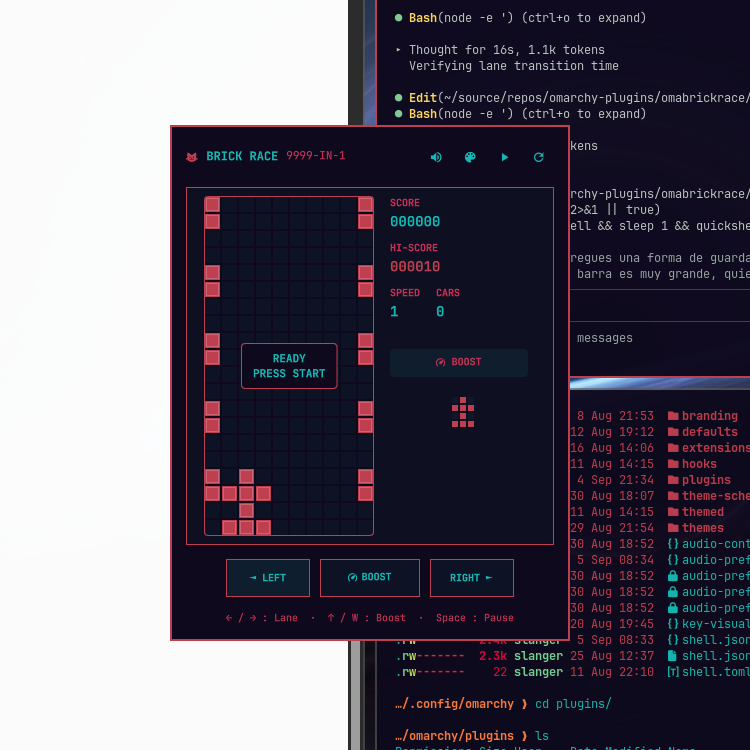
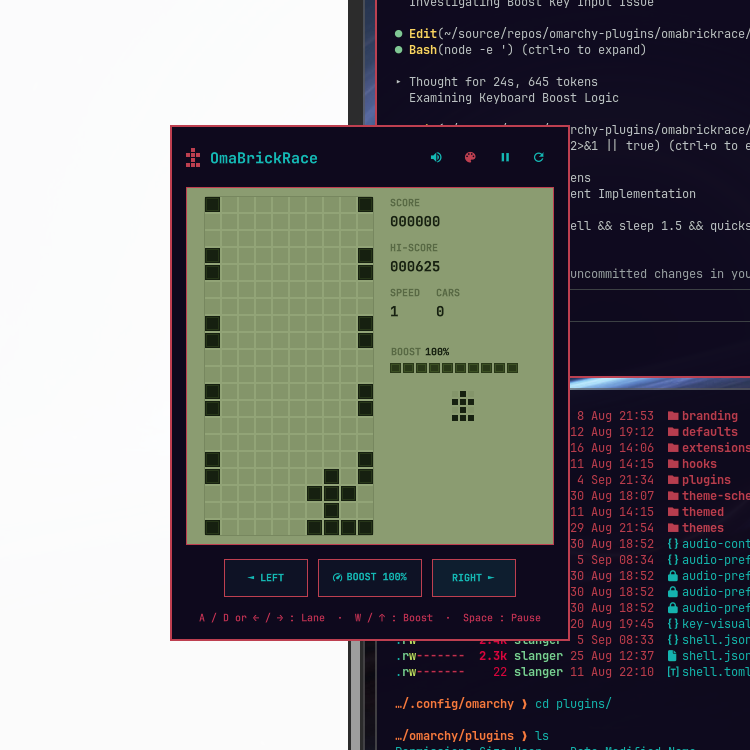
feat: fix keyboard boost autorepeat lockup, add boost energy meter with recharge on pass, update branding to OmaBrickRace

diff --git a/Panel.qml b/Panel.qml
@@ -96,6 +96,7 @@ Panel {
   }
 
   function close() {
+    root.setTurbo(false)
     root.game = Game.pause(root.game)
     root.controller.hide()
   }
@@ -190,9 +191,10 @@ Panel {
     }
   }
 
+  // Fallback watchdog timer for keyboard repeat release detection
   Timer {
-    id: turboReleaseTimer
-    interval: 250
+    id: boostWatchdogTimer
+    interval: 450
     repeat: false
     onTriggered: root.setTurbo(false)
   }
@@ -219,7 +221,7 @@ Panel {
 
         if (dy < 0) {
           root.setTurbo(true)
-          turboReleaseTimer.restart()
+          boostWatchdogTimer.restart()
         }
       }
 
@@ -240,7 +242,7 @@ Panel {
         else if (k === "d" || k === "l") root.steer(Game.LANE_RIGHT)
         else if (k === "w" || k === "k") {
           root.setTurbo(true)
-          turboReleaseTimer.restart()
+          boostWatchdogTimer.restart()
         }
         else if (k === "p") root.togglePause()
         else if (k === "r") root.startOrRestart()
@@ -249,8 +251,15 @@ Panel {
       }
 
       Keys.onReleased: function(event) {
-        if (event.key === Qt.Key_Up || event.key === Qt.Key_W) {
+        // Ignore synthetic autorepeat releases from X11/Wayland keyboard drivers
+        if (event.isAutoRepeat) {
+          event.accepted = true
+          return
+        }
+        if (event.key === Qt.Key_Up || event.key === Qt.Key_W || event.text === "w" || event.text === "k") {
+          boostWatchdogTimer.stop()
           root.setTurbo(false)
+          event.accepted = true
         }
       }
 
@@ -259,7 +268,7 @@ Panel {
         width: parent.width
         spacing: Style.space(12)
 
-        // Header with title and controls
+        // Header with pixel car icon, OmaBrickRace title, and action buttons
         Item {
           width: parent.width
           height: Style.space(34)
@@ -267,28 +276,39 @@ Panel {
           Row {
             anchors.left: parent.left
             anchors.verticalCenter: parent.verticalCenter
-            spacing: Style.space(8)
+            spacing: Style.space(10)
 
-            Text {
-              text: ""
-              color: Color.accent
-              font.family: root.fontFamily
-              font.pixelSize: Style.font.icon
+            // Matching pixel car glyph from the status bar widget
+            Grid {
+              anchors.verticalCenter: parent.verticalCenter
+              columns: 3
+              rows: 4
+              spacing: 1
+
+              Repeater {
+                model: [
+                  0, 1, 0,
+                  1, 1, 1,
+                  0, 1, 0,
+                  1, 1, 1
+                ]
+                Rectangle {
+                  required property int modelData
+                  width: Style.space(4)
+                  height: Style.space(4)
+                  radius: 0.5
+                  color: modelData === 1 ? Color.accent : "transparent"
+                }
+              }
             }
 
             Text {
-              text: "BRICK RACE"
+              anchors.verticalCenter: parent.verticalCenter
+              text: "OmaBrickRace"
               color: root.foreground
               font.family: root.fontFamily
-              font.pixelSize: Style.font.body
+              font.pixelSize: Style.font.bodyLarge
               font.bold: true
-            }
-
-            Text {
-              text: "9999-IN-1"
-              color: Color.muted
-              font.family: root.fontFamily
-              font.pixelSize: Style.font.bodySmall
             }
           }
 
@@ -448,7 +468,7 @@ Panel {
               }
             }
 
-            // Side HUD (Score, Hi-Score, Speed, Level, Indicators)
+            // Side HUD (Score, Hi-Score, Speed, Cars, Segmented Boost Gauge)
             Column {
               width: Style.space(146)
               height: Style.space(340)
@@ -540,32 +560,62 @@ Panel {
                 }
               }
 
-              Item { height: Style.space(8); width: 1 }
+              Item { height: Style.space(4); width: 1 }
 
-              // TURBO Badge Indicator
-              Rectangle {
+              // Segmented LCD BOOST / NITRO Gauge
+              Column {
                 width: parent.width - Style.space(8)
-                height: Style.space(28)
-                radius: Style.space(4)
-                color: root.game.turbo ? (root.classicLcdColors ? "#162010" : Color.accent) : (root.classicLcdColors ? "#84956a" : Qt.rgba(root.foreground.r, root.foreground.g, root.foreground.b, 0.08))
+                spacing: Style.space(4)
 
                 Row {
-                  anchors.centerIn: parent
-                  spacing: Style.space(6)
-
-                  Text {
-                    text: ""
-                    color: root.game.turbo ? (root.classicLcdColors ? "#92a477" : Color.background) : root.lcdTextMuted
-                    font.family: root.fontFamily
-                    font.pixelSize: Style.font.bodySmall
-                  }
-
+                  width: parent.width
+                  Item { width: 1; height: 1 }
                   Text {
                     text: "BOOST"
-                    color: root.game.turbo ? (root.classicLcdColors ? "#92a477" : Color.background) : root.lcdTextMuted
+                    color: root.game.turbo ? (root.classicLcdColors ? "#162010" : Color.accent) : root.lcdTextMuted
                     font.family: root.fontFamily
                     font.pixelSize: Style.font.caption
                     font.bold: true
+                  }
+                  Item { width: Style.space(4); height: 1 }
+                  Text {
+                    text: Math.round(root.game.boost) + "%"
+                    color: root.game.boost > 0 ? root.lcdTextDark : Color.muted
+                    font.family: "monospace"
+                    font.pixelSize: Style.font.caption
+                    font.bold: true
+                  }
+                }
+
+                // 10-bar segmented LCD meter
+                Row {
+                  spacing: Style.space(2)
+
+                  Repeater {
+                    model: 10
+
+                    Rectangle {
+                      required property int index
+                      width: Style.space(11)
+                      height: Style.space(10)
+                      radius: 0.5
+                      readonly property bool active: (index + 1) * 10 <= root.game.boost
+                      color: active
+                        ? (root.game.turbo
+                           ? (root.classicLcdColors ? "#162010" : Color.accent)
+                           : (root.classicLcdColors ? "#293818" : root.foreground))
+                        : root.lcdGhostPixel
+
+                      Rectangle {
+                        anchors.fill: parent
+                        anchors.margins: 1
+                        color: "transparent"
+                        border.width: 1
+                        border.color: parent.active
+                          ? (root.classicLcdColors ? "#3b4f23" : Qt.rgba(1, 1, 1, 0.2))
+                          : "transparent"
+                      }
+                    }
                   }
                 }
               }
@@ -573,7 +623,7 @@ Panel {
               // Mini Pixel Car Status Indicator
               Item {
                 width: parent.width
-                height: Style.space(50)
+                height: Style.space(46)
 
                 Grid {
                   anchors.centerIn: parent
@@ -642,9 +692,10 @@ Panel {
             // BOOST Button (press & hold or click)
             Rectangle {
               id: turboButton
-              width: Style.space(100)
+              width: Style.space(104)
               height: Style.space(38)
               radius: Style.cornerRadius
+              opacity: root.game.boost > 0 ? 1.0 : 0.5
               color: root.game.turbo ? Color.accent : Qt.rgba(root.foreground.r, root.foreground.g, root.foreground.b, 0.05)
               border.width: 1
               border.color: root.game.turbo ? Color.accent : Color.popups.border
@@ -659,7 +710,7 @@ Panel {
                   font.pixelSize: Style.font.bodySmall
                 }
                 Text {
-                  text: "BOOST"
+                  text: "BOOST " + Math.round(root.game.boost) + "%"
                   color: root.game.turbo ? Color.background : root.foreground
                   font.family: root.fontFamily
                   font.pixelSize: Style.font.caption
@@ -669,7 +720,7 @@ Panel {
 
               MouseArea {
                 anchors.fill: parent
-                cursorShape: Qt.PointingHandCursor
+                cursorShape: root.game.boost > 0 ? Qt.PointingHandCursor : Qt.ForbiddenCursor
                 onPressed: {
                   keyCatcher.forceActiveFocus()
                   root.setTurbo(true)
@@ -713,10 +764,10 @@ Panel {
           }
         }
 
-        // Keyboard hints footer in English
+        // Keyboard hints footer mentioning both A/D and Arrow keys in English
         Text {
           anchors.horizontalCenter: parent.horizontalCenter
-          text: "← / → : Lane  ·  ↑ / W : Boost  ·  Space : Pause"
+          text: "A / D or ← / → : Lane  ·  W / ↑ : Boost  ·  Space : Pause"
           color: Color.muted
           font.family: root.fontFamily
           font.pixelSize: Style.font.caption

diff --git a/GameModel.js b/GameModel.js
@@ -23,10 +23,14 @@ var TICK_LEVEL_STEP = 9
 var TURBO_FACTOR = 0.44
 
 // Guaranteed minimum row gap between consecutive cars in DIFFERENT lanes.
-// A value of 12 ensures that when Car A clears row 19, Car B is still at row 8,
-// giving the player at least 5 clear ticks (300ms+ even at max speed) to switch lanes safely.
 var MIN_OPPOSITE_LANE_GAP = 12
 var MIN_SAME_LANE_GAP = 10
+
+// Boost / Turbo Energy System
+var MAX_BOOST = 100
+var BOOST_DRAIN_PER_TICK = 3.0       // ~33 ticks of boost (~1.5 - 2 seconds continuous burn)
+var BOOST_PASS_CAR_BONUS = 25        // +25% boost recharge per car dodged
+var BOOST_PASSIVE_RECHARGE = 0.45    // Slow trickle recharge when cruising at normal speed
 
 var CAR_PIXELS = [
   [0, 1, 0],
@@ -43,6 +47,7 @@ function create(randomFn) {
     playerLane: LANE_LEFT,
     pendingLane: null,
     turbo: false,
+    boost: MAX_BOOST,
     score: 0,
     carsPassed: 0,
     level: 1,
@@ -75,6 +80,12 @@ function steer(state, targetLane) {
 
 function setTurbo(state, active) {
   var isTurbo = active === true
+
+  // Cannot activate boost if tank is empty
+  if (isTurbo && state.boost <= 0) {
+    isTurbo = false
+  }
+
   if (state.turbo === isTurbo) return state
 
   var next = copyState(state)
@@ -143,6 +154,7 @@ function copyState(state) {
     playerLane: state.playerLane,
     pendingLane: state.pendingLane,
     turbo: state.turbo,
+    boost: state.boost !== undefined ? state.boost : MAX_BOOST,
     score: state.score,
     carsPassed: state.carsPassed,
     level: state.level,
@@ -186,6 +198,17 @@ function step(state, randomFn) {
     return next
   }
 
+  // Handle Boost Consumption / Passive Recharge
+  if (next.turbo) {
+    next.boost = Math.max(0, next.boost - BOOST_DRAIN_PER_TICK)
+    if (next.boost <= 0) {
+      next.turbo = false
+      next.events.push("boost_empty")
+    }
+  } else {
+    next.boost = Math.min(MAX_BOOST, next.boost + BOOST_PASSIVE_RECHARGE)
+  }
+
   // Apply lane steering
   if (next.pendingLane !== null) {
     if (next.pendingLane !== next.playerLane) {
@@ -227,16 +250,20 @@ function step(state, randomFn) {
     return next
   }
 
-  // Update score & level progression
+  // Update score, level progression & boost recharge rewards
   if (carsPassedThisStep > 0) {
     var passPoints = carsPassedThisStep * (next.turbo ? 20 : 10)
     next.score += passPoints
     next.carsPassed += carsPassedThisStep
     next.events.push("score")
 
+    // Bonus boost refill when dodging cars!
+    next.boost = Math.min(MAX_BOOST, next.boost + carsPassedThisStep * BOOST_PASS_CAR_BONUS)
+
     var newLevel = Math.min(10, 1 + Math.floor(next.carsPassed / 8))
     if (newLevel > next.level) {
       next.level = newLevel
+      next.boost = MAX_BOOST // Full refill on level up!
       next.events.push("levelup")
     }
   }
@@ -254,19 +281,16 @@ function step(state, randomFn) {
 
     var last = next.enemies.length > 0 ? next.enemies[next.enemies.length - 1] : null
 
-    // Determine candidate lane
     var candidateLane = randVal < 0.5 ? LANE_LEFT : LANE_RIGHT
 
-    // Never spawn more than 2 consecutive cars in the same lane to keep race exciting
+    // Avoid 3 in a row on the same lane
     if (last && next.consecutiveSameLane >= 2) {
       candidateLane = (last.lane === LANE_LEFT) ? LANE_RIGHT : LANE_LEFT
     }
 
-    // Calculate required distance based on whether it is same lane or opposite lane
     var isOpposite = last && (last.lane !== candidateLane)
     var requiredGap = isOpposite ? MIN_OPPOSITE_LANE_GAP : MIN_SAME_LANE_GAP
 
-    // If the last car hasn't moved down far enough to guarantee the safe window, defer spawn!
     if (last && (last.y + CAR_HEIGHT < requiredGap)) {
       next.spawnCooldown = 1
     } else {
@@ -283,7 +307,6 @@ function step(state, randomFn) {
         next.consecutiveSameLane = 1
       }
 
-      // Next cooldown guarantees minimum gap + small natural variation
       var extraVariance = Math.floor((randomFn ? Number(randomFn()) : Math.random()) * 4)
       next.spawnCooldown = requiredGap + extraVariance
     }
